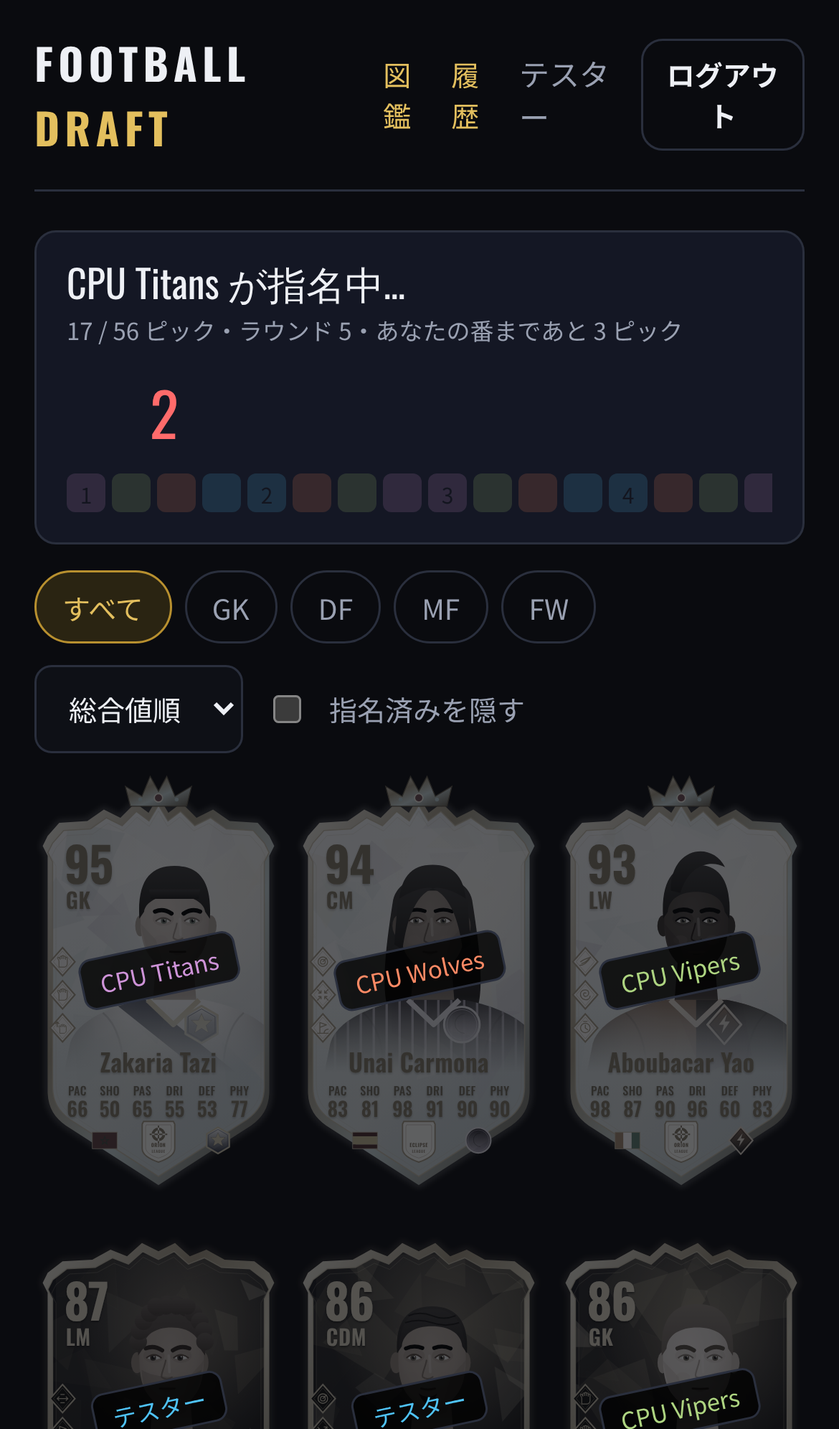
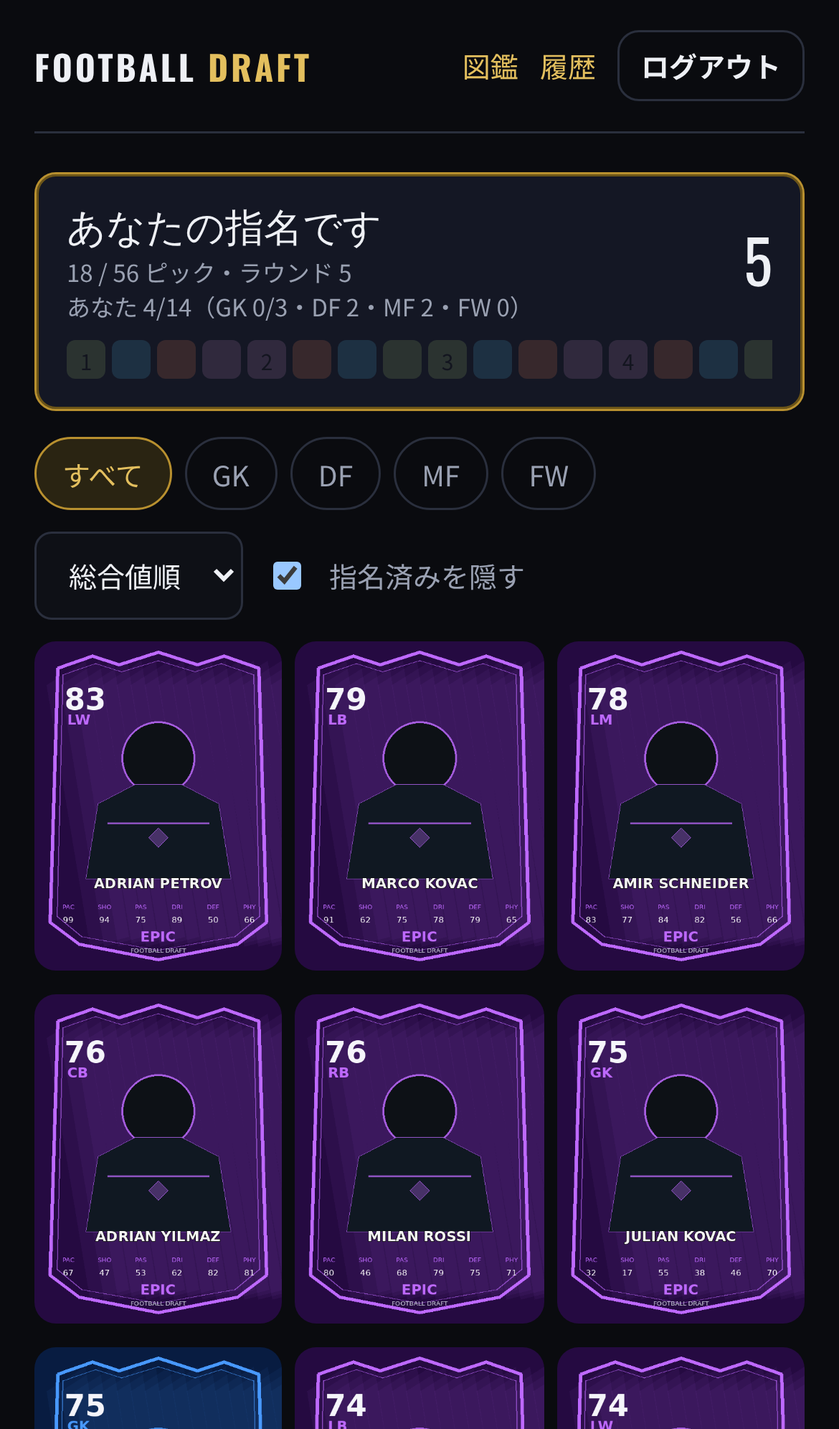
Docs and SIM version for the 300-player database
- SIM_VERSION 0.2.0 (traits, OVR calibration, retuned constants)
- decisions 15-19, implementation log, SIM spec with trait table and new
  balance results, README (data/assets, updating player data)
- screenshots refreshed with the provided card images

Claude-Session: https://claude.ai/code/session_01KRnKhUHTwbWg8SRZWPraiK

diff --git a/packages/shared/src/sim/engine.ts b/packages/shared/src/sim/engine.ts
@@ -20,7 +20,7 @@ import type {
 } from './types';
 
 /**
- * FOOTBALL DRAFT match simulation v0.1 (see docs/03-sim-v0.1.md).
+ * FOOTBALL DRAFT match simulation (see docs/03-sim.md, version = SIM_VERSION).
  *
  * A match is a sequence of possessions. Each possession moves through
  * phases (build-up -> midfield -> final third -> shot) and every phase is a

diff --git a/packages/shared/src/config.ts b/packages/shared/src/config.ts
@@ -36,4 +36,4 @@ export const GAME_CONFIG = {
 export const CATALOG_VERSION = 2;
 
 /** Bump whenever the simulation logic changes (stored with every match, spec 6-4). */
-export const SIM_VERSION = '0.1.0';
+export const SIM_VERSION = '0.2.0';

diff --git a/docs/03-sim.md b/docs/03-sim.md
@@ -1,6 +1,11 @@
-# 試合シミュレーション v0.1（暫定）
+# 試合シミュレーション（暫定）
 
-実装：`packages/shared/src/sim/engine.ts`　バージョン：`SIM_VERSION = 0.1.0`
+実装：`packages/shared/src/sim/engine.ts`　バージョン：`SIM_VERSION = 0.2.0`
+
+| バージョン | 内容 |
+| --- | --- |
+| 0.1.0 | 初版（自動生成の240人で調整） |
+| 0.2.0 | 選手データベース v1（300人）に対応。特殊能力を12種類に入れ替え、能力の水準をカードのOVRに合わせる補正を追加、カウンターと決定機の確率を再調整 |
 バランス検証：`npm run sim:balance -- 150`（`packages/shared/scripts/balance.ts`）
 
 ## 1. 全体の流れ
@@ -27,10 +32,10 @@
 
 | 要素 | 反映のしかた |
 | --- | --- |
-| 選手能力 | 局面ごとに使う内部能力が違う（例：ビルドアップ＝ショートパス・ボールコントロール・視野・ロングパス） |
-| ポジション | 適性外では能力 ×0.80〜0.93（GKは別扱い）。フォーメーションの枠ごとに部隊を決める |
+| 選手能力 | 局面ごとに使う内部能力が違う（例：ビルドアップ＝ショートパス・ボールコントロール・視野・ロングパス）。内部能力の比率はデータベースの値、全体の水準はカードのOVRに合わせる（係数＝OVR ÷ 主ポジションでの内部能力評価） |
+| ポジション | 適性外では能力 ×0.80〜0.93（GKは別扱い）。CFはST枠、LWB/RWBはLB/RB枠で減点なし。フォーメーションの枠ごとに部隊を決める |
 | 役割（プレースタイル） | ケミストリーと、シュート・アシストを担う選手の選び方に反映 |
-| 特殊能力 | 条件付きで発動（`data/traits.ts` に発動条件を明記）。固定の能力加算ではない |
+| 特殊能力 | データベースの12種類。すべて条件付きで発動（`data/traits.ts` に発動条件を明記、下表）。条件に合わない選手（例：GK以外のSweeper Keeper）では発動しない |
 | フォーメーション | 枠の位置で、どのサイドに誰がいるかが決まる（攻撃方向・相手の弱いサイドとの関係） |
 | 攻撃戦術 | ポゼッション：保持・前進に＋、失敗してもボールを下げてやり直す。カウンター：奪った後に速攻。ロングボール：中盤を飛ばす |
 | 守備戦術 | ハイプレス：相手のビルドアップを奪いやすいが、スタミナ消費が増え、ロングボールと背後を突かれやすい。ローブロック：ゴール前は堅いが押し込まれ、CK・ミドルシュートが増える |
@@ -41,9 +46,26 @@
 | 控え選手 | 60分・75分の時点で疲れた選手を交代（最大3人）。負けて攻撃的に切り替えた時はFWを優先して入れる |
 | 乱数 | 試合ごとのシード |
 
+### 特殊能力の効果
+
+| 特殊能力 | 発動条件と効果 |
+| --- | --- |
+| Engine | 全ポジション：スタミナ消費 −25% |
+| Counter Runner | FW・MF枠：カウンター発生率 +8%/人（2人まで）、カウンター局面のスピード +5/人 |
+| Sweeper Keeper | GK枠のみ：相手のカウンター・裏抜けの守備 +4（守備ラインが高い時 +6） |
+| Cross Specialist | サイド枠のみ：そのサイドの攻撃でクロスを選ぶ率 +10%/人、本人のクロスからの xG ×1.2。出場中はCK・FKの質 +3 |
+| Press Resistant | DF・MF枠：ビルドアップ +2/人（最大+4）、中盤の前進 +1/人（最大+2） |
+| Clinical Finisher | 本人のシュート（ミドル・ヘディング以外）：xG ×1.15。GKは打たないため発動しない |
+| Leader | 出場中：ケミストリー +3（2人まで）、負けている終盤の能力低下を緩和 |
+| Long Shot | 本人のミドルシュート・直接FK：xG ×1.5、キッカー・ミドルを任されやすい |
+| Aerial Threat | 空中戦 +8（攻守）、本人のヘディング xG ×1.4 |
+| Ball Winner | DF・MF枠：中盤の守備 +2/人（最大+4）、プレス +1/人（最大+3） |
+| Speedster | カウンター・裏抜けの局面のみ：スピード +8（2人まで） |
+| Playmaker | MF・FW枠：中盤の前進 +2/人（2人まで）、本人のパスからの決定機 xG ×1.15 |
+
 ## 3. 決定機とゴール
 
-- 決定機の種類ごとに基本のゴール期待値（xG）を持つ（例：スルーパス 0.145、クロスからのヘディング 0.06、カウンター 0.175、PK 0.76）。
+- 決定機の種類ごとに基本のゴール期待値（xG）を持つ（例：スルーパス 0.135、クロスからのヘディング 0.056、カウンター 0.16、PK 0.76）。
 - xG ＝ 基本値 ×（シュートを打つ選手の決定力）×（相手の守備の圧力）× 特性補正。
 - ゴール確率 ＝ xG ×（相手GKの能力による補正）。それ以外はセーブ・ブロック・枠外。
 
@@ -51,44 +73,45 @@
 
 6.0 から出来事ごとに加点・減点（ゴール +1.0〜1.2、アシスト +0.5、決定機を作る +0.12、セーブ +0.22〜0.45、失点 GK −0.3・DF −0.12、警告 −0.3、退場 −1.5、勝利 +0.3、無失点 +0.4）。3.0〜10.0 に収め、最高評価をMVPにする。
 
-## 5. バランス検証の結果（2026-11-13、150リーグ＝900試合）
+## 5. バランス検証の結果（v0.2.0・選手データベース v1、2026-11-13、150リーグ＝900試合）
 
 | 指標 | 結果 | 目安（実際のサッカー） |
 | --- | --- | --- |
-| 1試合の総得点 | 3.02 | 2.5〜3.0 |
-| 1チームのシュート | 14.1 | 10〜15 |
-| 1チームの枠内シュート | 4.7 | 3.5〜5.5 |
-| 1チームのxG | 1.72 | 1.2〜1.6 |
-| 引き分け率 | 26.9% | 20〜30% |
-| パス成功率 | 83.4% | 78〜85% |
-| 1試合の交代 | 2.6 | - |
+| 1試合の総得点 | 2.93 | 2.5〜3.0 |
+| 1チームのシュート | 14.9 | 10〜15 |
+| 1チームの枠内シュート | 4.8 | 3.5〜5.5 |
+| 1チームのxG | 1.74 | 1.2〜1.6 |
+| 引き分け率 | 27.0% | 20〜30% |
+| パス成功率 | 83.6% | 78〜85% |
+| 1試合の交代 | 2.7 | - |
 
 チームの強さの差（スタメンの平均評価の差）と勝率：
 
 | 差 | 強い方の勝率 | 引き分け |
 | --- | --- | --- |
-| 0〜3 | 49.7% | 20.0% |
-| 4〜7 | 64.9% | 19.6% |
-| 8〜11 | 73.0% | 13.5% |
-| 12以上 | 89.5% | 10.5% |
+| 0〜3 | 44.5% | 19.7% |
+| 4〜7 | 64.3% | 15.8% |
+| 8〜11 | 76.3% | 14.4% |
+| 12以上 | 95.0% | 5.0% |
 
 同じ選手で戦術だけを変えた対戦（1試合あたりの勝点、平均1.35前後が理想）：
 
 | 攻撃 / 守備 | 勝点 |
 | --- | --- |
-| カウンター / ローブロック | 1.57 |
-| ポゼッション / ミドルブロック | 1.46 |
-| ポゼッション / ローブロック | 1.46 |
-| ポゼッション / ハイプレス | 1.43 |
-| ロングボール / ローブロック | 1.33 |
-| カウンター / ハイプレス | 1.30 |
-| ロングボール / ハイプレス | 1.30 |
-| カウンター / ミドルブロック | 1.29 |
-| ロングボール / ミドルブロック | 1.27 |
+| ポゼッション / ローブロック | 1.53 |
+| ロングボール / ハイプレス | 1.47 |
+| カウンター / ローブロック | 1.43 |
+| ロングボール / ローブロック | 1.42 |
+| ロングボール / ミドルブロック | 1.40 |
+| ポゼッション / ハイプレス | 1.37 |
+| カウンター / ミドルブロック | 1.33 |
+| カウンター / ハイプレス | 1.32 |
+| ポゼッション / ミドルブロック | 1.31 |
 
 ## 6. 既知の課題（ベータテストで調整）
 
-- 「カウンター＋ローブロック」がやや強い（1.57）。
+- データベースの攻撃陣は守備陣よりスピードが高く、カウンターがシュートの約35%を占める（実際より多い）。
+- 「ポゼッション＋ローブロック」がやや強い（1.53）。
 - スネークドラフトでは4チームの戦力差が小さくなりやすく、戦術と相性の比重が大きい（ドラフトの公平性としては良い面もある）。
-- 退場は1試合0.17件で、実際より少し多い。
+- 退場は1試合0.15件で、実際より少し多い。
 - 処理時間は1試合約2〜4ms（Node.js）。Workers の CPU 時間制限を考えると、本番は有料プランを前提にする。

diff --git a/docs/02-decisions.md b/docs/02-decisions.md
@@ -9,18 +9,30 @@
 | --- | --- | --- | --- |
 | 1 | 今回の開発範囲 | Phase 1（コアゲーム）＋Phase 2（オンライン4人対戦・アカウント・再接続・対戦履歴）＋管理画面のカード一覧 | 確定 |
 | 2 | 技術構成 | TypeScript モノレポ。API＝Cloudflare Workers＋D1＋Durable Objects（WebSocket）。ゲーム＝React Web。管理サイト＝独立したReactアプリ。iOS/Android（Expo）は後のフェーズ | 確定 |
-| 3 | 選手の肖像 | SVGでコード生成するイラスト肖像（選手ごとに髪型・肌色・顔立ち・ユニフォームが異なる） | 確定 |
-| 4 | カード枠 | ユーザー提供画像のデザインを再現（盾形の枠、レアリティ別配色、左上に総合値とポジション、左に特性アイコン3つ、名前、6能力、国旗・リーグ・クラブの紋章、下にレアリティ名） | 確定 |
+| 3 | 選手の肖像 | ~~SVGでコード生成するイラスト肖像~~ → 2026-11-13 の追加決定（下記）で、選手データベースのカード画像に変更 | 変更 |
+| 4 | カード枠 | ~~最初の参考画像のデザインを再現~~ → 選手データベースのカード画像（PNG）をそのまま使用 | 変更 |
 | 5 | ピックの制限時間 | 8秒（設計書 3-4 の初期検討値） | 暫定 |
-| 6 | 選手カードの初期総数 | 240人 | 暫定 |
+| 6 | 選手カードの初期総数 | ~~240人~~ → 選手データベースの300人 | 変更 |
 | 7 | ドラフト候補プール | 1回につき84人（GK12・DF24・MF24・FW12・自由12）。56人を指名。GKは1人3人まで | 暫定 |
-| 8 | 名前・国籍 | 実在の国籍＋国ごとの名・姓を組み合わせた架空の名前。リーグ・クラブは架空（North / Eclipse / Orion / Empire / Zenith League） | 暫定 |
-| 9 | SIMの計算式 | v0.1 を設計して `docs/03-sim-v0.1.md` に記録。大量の自動試合でバランスを検証 | 暫定 |
+| 8 | 名前・国籍 | ~~自動生成の架空名~~ → 選手データベースの値（架空の選手・クラブ・リーグ。15か国・10クラブ・6リーグ） | 変更 |
+| 9 | SIMの計算式 | 設計して `docs/03-sim.md` に記録（現在 v0.2.0）。大量の自動試合でバランスを検証 | 暫定 |
 | 10 | 試合形式 | 4チームの総当たりリーグ（3節・計6試合）。勝点 3/1/0 → 得失点差 → 総得点 → 直接対決 → 抽選（シード） | 確定 |
 | 11 | 編成変更 | 各節の前に変更できる。ドラフト直後60秒、節の合間30秒。時間切れは直前の設定のまま | 確定（秒数は暫定） |
 | 12 | アカウント | ユーザー名＋パスワード | 確定 |
 | 13 | 試合の再生時間 | 1試合（90分）を約60秒で再生。4人とも同じ進行 | 確定 |
 | 14 | コミット先 | `claude/amazing-lamport-vwkai8` ブランチ（SecondAKIRA の指示は今回は無視してよいと回答あり） | 確定 |
+
+### 2026-11-13 追加決定：FOOTBALL DRAFT 300 Player Database v1 の採用
+
+ユーザーから選手データベース（`data/player-db-v1/`、300人・カード画像300枚・テンプレート5枚）が提供され、次のとおり確認した。
+
+| # | 項目 | 決定内容 |
+| --- | --- | --- |
+| 15 | カードに使うデータ | 選手データベースの300人を使う（名前・国籍・クラブ・リーグ・ポジション・レアリティ・OVR・表示6能力・特殊能力・身長・年齢・SIM用19能力） |
+| 16 | カードの見た目 | 添付のカード画像（PNG）をそのまま使う（ゲーム・管理サイトとも） |
+| 17 | 最初の参考画像の5人 | 削除。カードはデータベースの300人だけ |
+| 18 | CF・LWB・RWB | ポジションとして追加。CFはST枠、LWB/RWBはLB/RB枠で適性あり（減点なし）として扱う。フォーメーションは変更なし |
+| 19 | 特殊能力 | データベースの12種類（Engine・Counter Runner・Sweeper Keeper・Cross Specialist・Press Resistant・Clinical Finisher・Leader・Long Shot・Aerial Threat・Ball Winner・Speedster・Playmaker）に入れ替え。付け方はデータどおりで、条件に合わない時は発動しない（例：Sweeper Keeper は GK 枠で出場した時だけ） |
 
 ## 2. 実装上の判断（仕様の範囲内で決めたもの）
 
@@ -28,10 +40,14 @@
 | --- | --- | --- |
 | 空席の扱い | ホストはいつでも開始でき、空席はCPUが埋める。4人そろうと自動で開始 | 1人でもテストできる。仕様の「最大4人」に合う |
 | 切断中のプレイヤー | ドラフトでは時間切れで自動指名（設計書 3-5）。再接続すると最新の状態を受け取る | 設計書 23-1「通信切断後に復帰できる」 |
-| GK の表示能力 | 設計書 4-1 どおり、GK も PAC〜PHY の6項目で表示。総合値（OVR）はGK用の内部能力から計算 | 確定仕様を変えないため。GK専用ラベルへの変更は提案事項（下記） |
+| GK の表示能力 | 設計書 4-1 どおり、GK も PAC〜PHY の6項目。値はデータベースのとおり | 確定仕様のとおり |
+| 表示能力・OVR | データベースの値をそのまま使う（内部能力から計算しない） | 設計書 4-2「算出してもよい」の範囲。データを正とするため |
+| ポジション別評価 | 主ポジションでの評価＝カードのOVR。他のポジションは内部能力から計算した比率と適性外の減点で決める | カードのOVRと編成画面の数字をそろえるため |
+| SIM の能力の水準 | SIM は内部能力の「形」（得意・不得意の比率）を使い、全体の水準はカードのOVRに合わせる（補正係数は 0.67〜1.13） | データの内部能力はOVRより平均8%高く、選手ごとのずれも大きい。そのままだとOVRと強さが一致せず、得点も多すぎた（1試合4.2点） |
+| プレースタイル | データベースにないため、主ポジションと内部能力から自動判定（ケミストリー用） | 設計書 5-5 のケミストリーに必要 |
+| 旧カード（240人） | D1 では削除せず無効化（`is_active=0`）。過去のドラフト・試合の記録はそのまま残る | 履歴の整合性のため |
 | 管理者の権限 | owner / admin / viewer の3種類（暫定）。viewer はカード閲覧のみ | 設計書 24-11 が未確定のため最小限 |
 | 管理サイトの未実装ページ | メニューに出さない | 未実装機能を実装済みに見せないため（設計書 0-4） |
-| 特性アイコン3つ | 1つ目＝プレースタイル（ケミストリー用の役割）、2・3つ目＝特殊能力 | 画像では全カードにアイコンが3つある |
 | WebSocket 認証 | `POST /api/rooms/:id/ticket` で発行する60秒有効の署名付きチケット | ブラウザのWebSocketはヘッダーを付けられず、セッショントークンをURLに出さないため |
 | 管理者の2段階認証 | TOTP（RFC 6238）。`ADMIN_REQUIRE_2FA=true` の環境では必須。ローカル環境だけ任意 | 設計書 20-4。ローカルで確認しやすくするため |
 
@@ -39,4 +55,4 @@
 
 | 項目 | 提案 |
 | --- | --- |
-| GK カードの表示ラベル | 実在ゲームのように GK 専用の6項目（反応・キャッチ・位置取り・キック・スピード・フィジカル）にすると能力が読み取りやすい。設計書 4-1 の変更になるため未実施 |
+| （なし） | GK専用ラベルの提案は、カードがデータベースの画像（PAC〜PHY表記）になったため取り下げ |

diff --git a/README.md b/README.md
@@ -9,8 +9,10 @@
 
 | ディレクトリ | 内容 |
 | --- | --- |
-| `packages/shared` | 型・選手生成（架空240人）・スネークドラフト・自動指名・編成・ケミストリー・試合SIM・リーグ順位・通信の型 |
-| `packages/ui` | 選手カード（参考画像のデザイン）・SVGイラスト肖像・国旗・クラブ紋章・特性アイコン |
+| `packages/shared` | 型・選手データベースの取り込み・スネークドラフト・自動指名・編成・ケミストリー・試合SIM・リーグ順位・通信の型 |
+| `data/player-db-v1` | 選手データベース（FOOTBALL DRAFT 300 Player Database v1：架空選手300人、SIM用19能力） |
+| `assets/` | カード画像（`cards/FD-001.png`〜`FD-300.png`）とレアリティ別テンプレート。ゲーム・管理サイトの静的ファイルとして配信 |
+| `packages/ui` | 選手カード（データベースのカード画像を表示）・国旗 |
 | `apps/api` | ゲームのバックエンド。Cloudflare Workers（Hono）＋ D1 ＋ Durable Objects（`RoomDO`：ルーム・ドラフト・試合の進行をサーバーで確定） |
 | `apps/web` | ゲーム本体（React＋Vite） |
 | `apps/admin` | FOOTBALL DRAFT ADMIN（運営管理サイト。管理者専用認証） |
@@ -24,7 +26,7 @@ npm install
 
 # 1. APIの準備（初回のみ）
 cp apps/api/.dev.vars.example apps/api/.dev.vars   # WS_TICKET_SECRET をランダムな値に変更
-npm run db:migrate:local                            # テーブル作成＋選手240人を投入
+npm run db:migrate:local                            # テーブル作成＋選手データベース（300人）を投入
 
 # 2. 起動（それぞれ別のターミナルで）
 npm run dev:api     # http://127.0.0.1:8787
@@ -40,6 +42,12 @@ npm run admin:create:local -- --username あなたの管理者名
 
 ゲームは `http://127.0.0.1:5173` で新規登録 → 「クイックドラフト」または「ルームを作成」。
 1人でも開始でき、空席はCPUが埋めます。友だちとは招待コード・招待リンクで同じルームに入れます。
+
+## 選手データの更新
+
+1. `data/player-db-v1/players.json`・`simulation_attributes.json` と `assets/cards/` を差し替える
+2. `npm test -w @fd/shared`（取り込み検証：レアリティ・OVR帯・特殊能力・ポジション・画像ファイルの有無）
+3. `npm run seed:generate` で D1 用のマイグレーションを作り直す（既に適用済みの環境には新しい番号のマイグレーションとして追加する）
 
 ## テスト
 
@@ -58,12 +66,13 @@ npm run typecheck
 2. `wrangler d1 migrations apply DB --remote --env <env>`
 3. `wrangler secret put WS_TICKET_SECRET --env <env>`
 4. `ALLOWED_ORIGINS` にゲーム・管理サイトの公開URLを設定し、`apps/web` / `apps/admin` をビルドして配信（`VITE_API_URL` にAPIのURL）
-5. 試合SIMとCPUの自動指名はCPU時間を使うため、Workers は有料プランを推奨
+5. カード画像は各アプリの静的ファイルとして配信される。CDN / R2 に置く場合は `VITE_CARD_BASE_URL` にそのURLを設定
+6. 試合SIMとCPUの自動指名はCPU時間を使うため、Workers は有料プランを推奨
 
 ## ドキュメント
 
 - `docs/00-phase0-report.md` 現状分析
 - `docs/01-dev-plan.md` 開発計画
 - `docs/02-decisions.md` 決定事項・暫定値・提案中の事項
-- `docs/03-sim-v0.1.md` 試合シミュレーションの仕様とバランス検証結果
+- `docs/03-sim.md` 試合シミュレーションの仕様とバランス検証結果
 - `docs/04-implementation-log.md` 実装記録（実装済み・未実装・検証結果・既知の課題）

diff --git a/docs/01-dev-plan.md b/docs/01-dev-plan.md
@@ -6,7 +6,7 @@
 foot-draft/
 ├─ packages/
 │  ├─ shared/   # 型・定数・乱数・選手生成・ドラフト・編成・ケミストリー・SIM・リーグ（クライアントとサーバーで共用）
-│  └─ ui/       # React 部品：選手カード（参考画像のデザイン）・SVG肖像・国旗・紋章・アイコン
+│  └─ ui/       # React 部品：選手カード（データベースのカード画像）・国旗
 ├─ apps/
 │  ├─ api/      # Cloudflare Workers（Hono）＋ D1 ＋ Durable Objects（RoomDO：ルーム・ドラフト・試合進行）
 │  ├─ web/      # ゲーム本体（React＋Vite）
@@ -25,8 +25,8 @@ foot-draft/
 | 機能 | 新規ファイル | DB | API | UI | テスト | 完了条件 |
 | --- | --- | --- | --- | --- | --- | --- |
 | 乱数・シード | shared/rng.ts | - | - | - | 同一シードで同一数列 | テスト合格 |
-| 架空選手DB（240人） | shared/players/* | player_cards, player_attributes, player_positions, player_traits | GET /api/players | カード一覧 | 人数・レアリティ帯・重複名なし | D1に投入され管理画面に表示 |
-| 選手カード | ui/PlayerCard 他 | - | - | 全画面 | スクリーンショット確認 | 参考画像の要素がそろう |
+| 選手DB（データベースv1・300人） | data/player-db-v1, shared/players/* | player_cards, player_attributes, player_positions, player_traits | GET /api/players | カード一覧 | 人数・レアリティ帯・元データとの一致 | D1に投入され管理画面に表示 |
+| 選手カード | ui/PlayerCard（データベースのPNG） | - | - | 全画面 | スクリーンショット確認 | 全カード画像が表示される |
 | アカウント | api/auth.ts | users, user_sessions | /api/auth/register・login・logout, /api/users/me | ログイン画面 | 登録・ログイン・不正パスワード | 結合テスト合格 |
 | ルーム | api/rooms.ts, RoomDO | rooms, room_members | /api/rooms, /api/rooms/join, /api/rooms/quick, /api/rooms/:id | ロビー | 4人参加・満員拒否 | 4人で同じルームに入れる |
 | Snake Draft | shared/draft.ts, RoomDO | drafts, draft_picks | WebSocket, POST /api/drafts/:id/pick, GET /api/drafts/:id/state | ドラフト画面 | 56回・重複なし・GK上限・時間切れ自動指名 | 結合テスト合格 |
@@ -36,7 +36,7 @@ foot-draft/
 | 再接続 | RoomDO | - | WebSocket | 自動再接続 | 切断→再接続で状態復元 | 結合テスト合格 |
 | 対戦履歴 | api/matches.ts | 上記 | GET /api/matches/history, /api/users/me/history | 履歴画面 | 試合後に履歴が増える | 結合テスト合格 |
 | 管理者認証 | api/admin/* | admin_users, admin_sessions, admin_audit_logs | /api/admin/auth/* | 管理ログイン | 一般ユーザーのトークンで403 | テスト合格 |
-| 管理：カード一覧 | admin/* | player_* | GET /api/admin/cards, /api/admin/cards/:id | カード一覧・詳細 | 240枚・絞り込み | 画面で確認 |
+| 管理：カード一覧 | admin/* | player_* | GET /api/admin/cards, /api/admin/cards/:id | カード一覧・詳細 | 300枚・絞り込み | 画面で確認 |
 | 分析イベント | api/analytics.ts | analytics_events | - | - | 主要イベントが記録される | 結合テスト合格 |
 
 ## 3. 実装順序

diff --git a/docs/04-implementation-log.md b/docs/04-implementation-log.md
@@ -1,6 +1,24 @@
 # 実装記録
 
-## 2026-11-13 Phase 1＋Phase 2＋管理画面カード一覧
+## 2026-11-13（2回目）選手データベース v1 への切り替え
+
+ユーザー提供の「FOOTBALL DRAFT 300 Player Database v1」をカードのデータに採用（決定内容は `docs/02-decisions.md` の 15〜19）。
+
+| 区分 | 変更内容 | 主なファイル |
+| --- | --- | --- |
+| データ | 元データを `data/player-db-v1/` に保存し、そのまま読み込む（変換・検証は `convertPlayerDatabase`）。表示能力・OVR・ポジション・特殊能力・SIM用19能力はデータのとおり | `packages/shared/src/players/import.ts`, `catalog.ts` |
+| カード画像 | 添付のPNG 300枚とテンプレート5枚を `assets/` に置き、ゲーム・管理サイトでそのまま表示。リスト・ピッチの丸アイコンはカード画像の人物部分を切り抜いて使う | `packages/ui/src/PlayerCard.tsx`, `Avatar.tsx` |
+| ポジション | CF・LWB・RWB を追加（15ポジション）。CF＝ST枠、LWB/RWB＝LB/RB枠で減点なし | `packages/shared/src/data/positions.ts` |
+| 特殊能力 | データの12種類に入れ替え、発動条件を明記してSIMに実装 | `data/traits.ts`, `sim/engine.ts` |
+| クラブ・リーグ・国籍 | データの10クラブ・6リーグ（Vortex League を追加）・15か国。国旗に韓国・クロアチア・アメリカ・ポルトガルを追加 | `data/clubs.ts`, `data/nations.ts`, `ui/src/Flag.tsx` |
+| SIM | v0.2.0。能力の水準をカードのOVRに合わせる補正、カウンターと決定機の確率を再調整（`docs/03-sim.md`） | `sim/engine.ts` |
+| D1 | マイグレーション `0003_player_db_v1.sql`：旧240人を無効化、`card_asset` 列を追加、300人を投入 | `apps/api/migrations/` |
+| 削除 | 自動生成の240人・最初の参考画像の5人・SVGカード／肖像／紋章／アイコン（git履歴には残っている） | - |
+
+検証：単体テスト26件成功（元データとの一致、全300枚の画像の存在、CF/LWB/RWB、OVRとポジション別評価の一致を含む）、結合テスト（4人オンライン・管理API、300枚・CF絞り込み・FD-001の詳細）すべて成功、ブラウザで登録→ドラフト→3試合→最終順位、管理サイト（TOTPログイン→カード一覧・表・詳細・操作ログ）を確認しエラーなし。スマートフォン幅の表示も確認。
+
+
+## 2026-11-13（1回目）Phase 1＋Phase 2＋管理画面カード一覧
 
 ### 実装済み（ローカル環境で動作確認済み）
 
